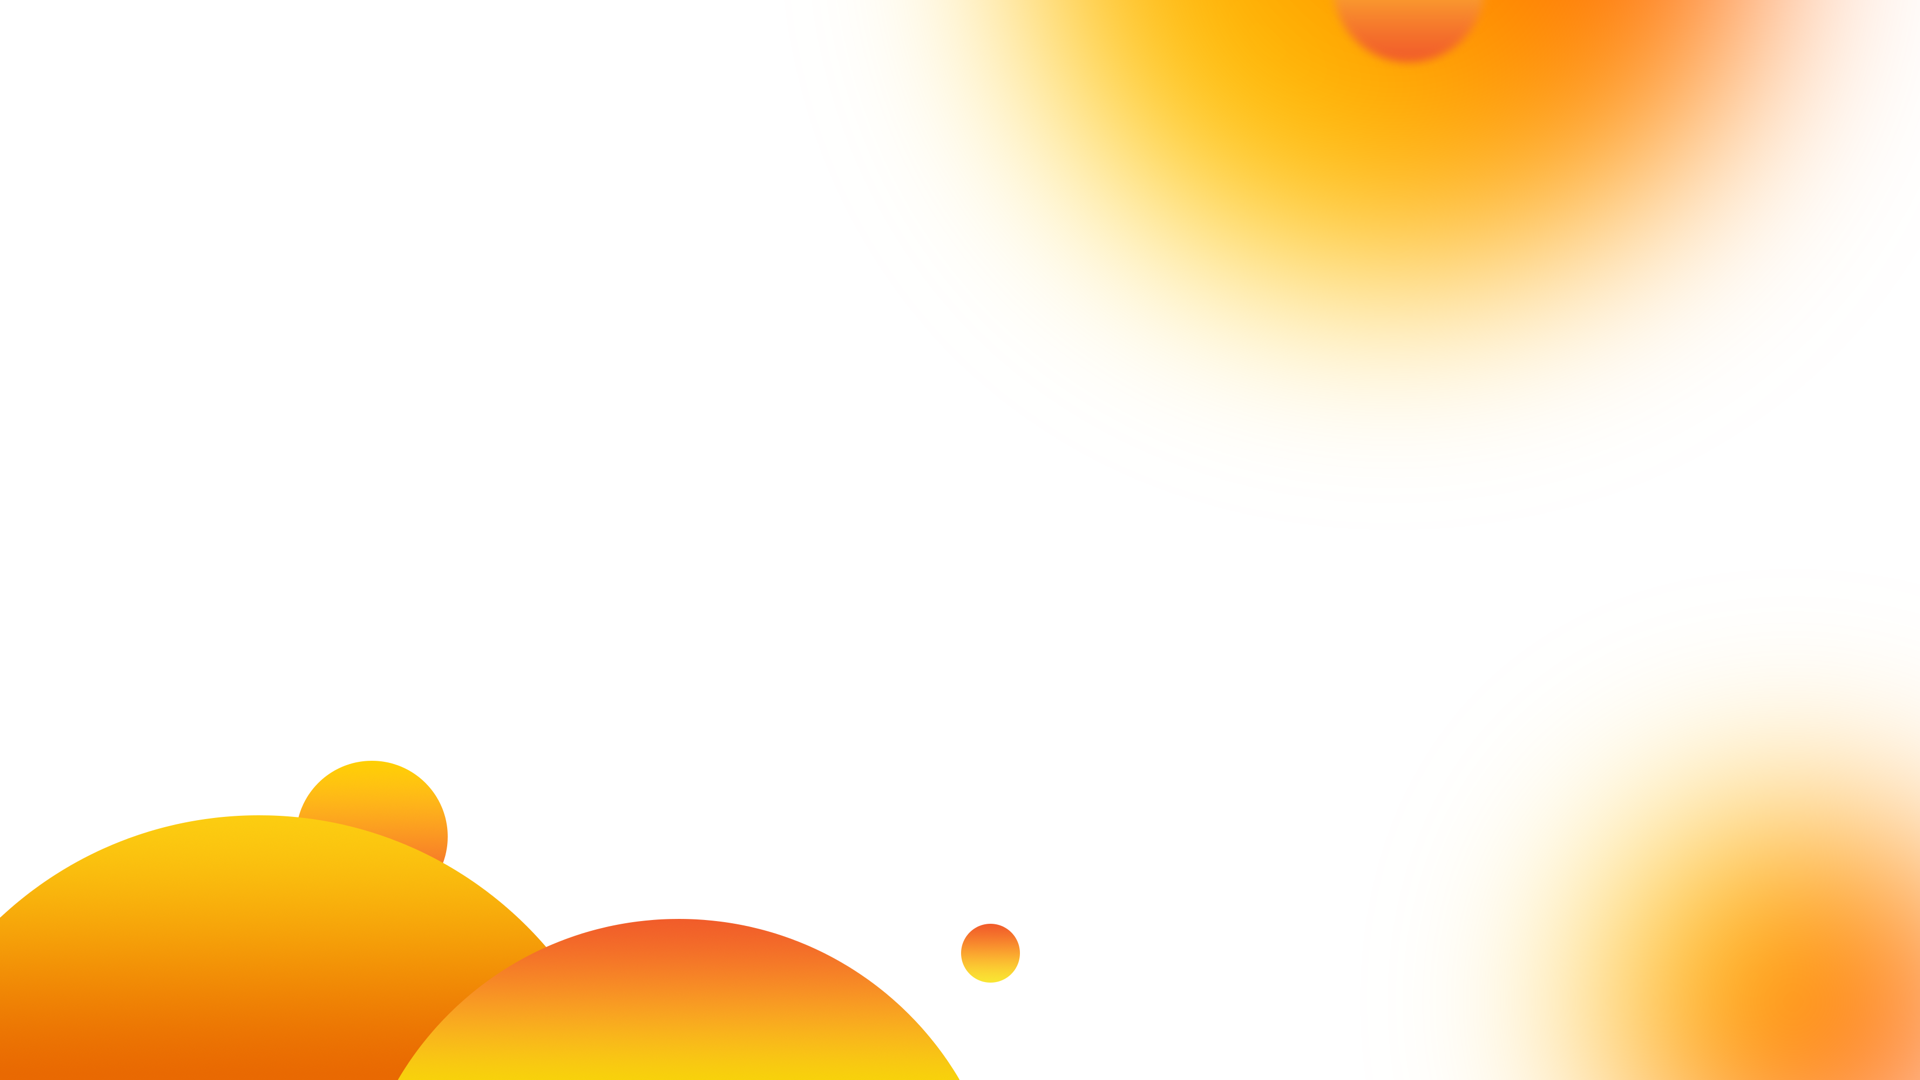
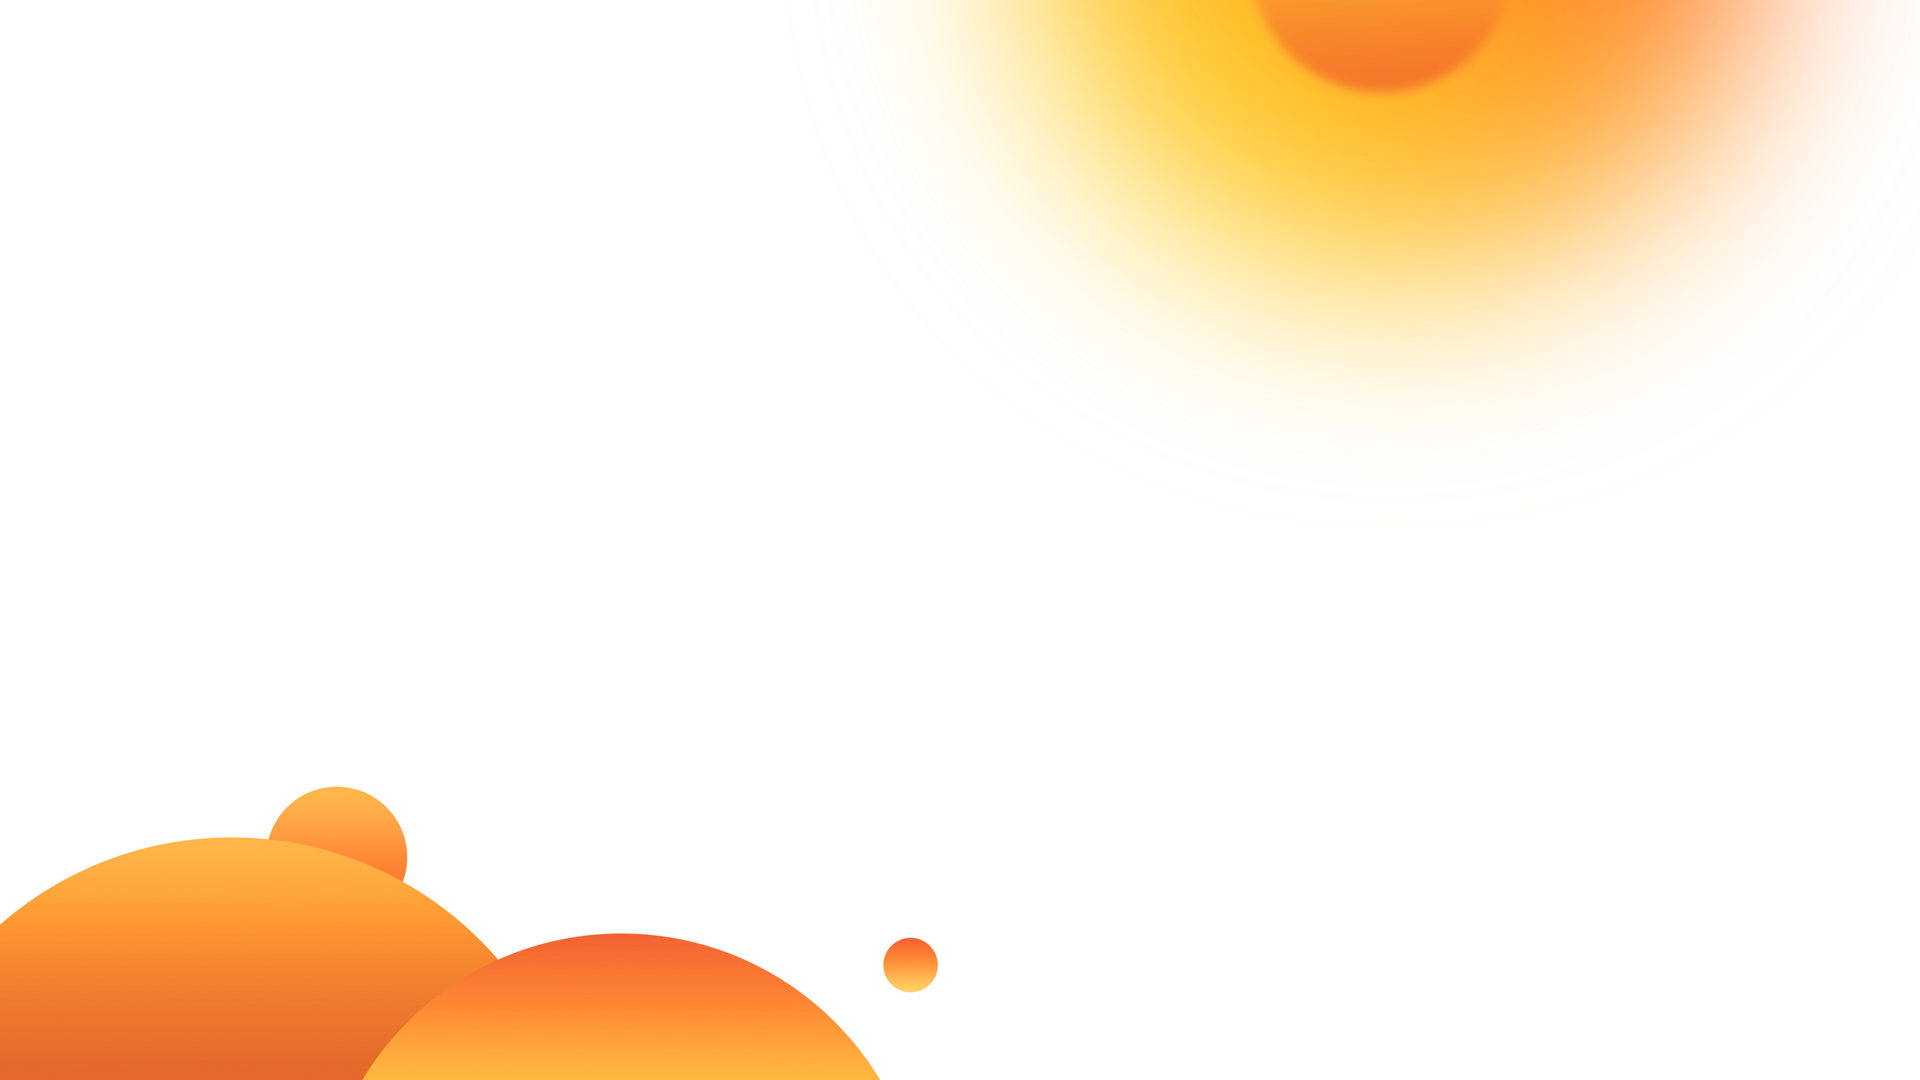
LoginBg update

Changed region(s): [[0.0, 0.7028, 0.5312, 1.0], [0.7812, 0.6417, 1.0, 1.0], [0.5625, 0.0, 0.875, 0.2139]]

diff --git a/src/routes/auth/+page.svelte b/src/routes/auth/+page.svelte
@@ -283,7 +283,7 @@
 										</button>
 									{:else}
 										<button
-											class="bg-gray-900 hover:bg-gray-900/10 dark:bg-gray-100/5 dark:hover:bg-gray-100/10 dark:text-gray-300 dark:hover:text-white text-white transition w-full rounded-full font-medium text-sm py-2.5"
+											class="bg-gray-900 hover:bg-gray-900 dark:bg-gray-100/5 dark:hover:bg-gray-100/10 dark:text-gray-300 dark:hover:text-white text-white transition w-full rounded-full font-medium text-sm py-2.5"
 											type="submit"
 										>
 											{mode === 'signin'
